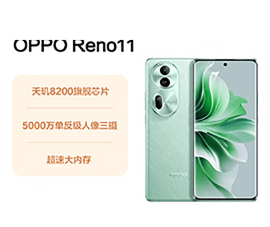
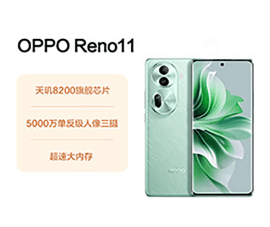
银券合约期图片，reno字缺失修改

diff --git a/尊享多多终端直降活动页面（4.19）/js/index.js b/尊享多多终端直降活动页面（4.19）/js/index.js
@@ -128,7 +128,7 @@ const levelMaps = {
         oldrice: 9599,
       },
       {
-        descImg: './img/opporeno11.png',
+        descImg: './img/opporeno11pro.png',
         downPrice: 400,
         oldrice: 2899,
       },
@@ -211,12 +211,12 @@ function setCoupon({ couponList, min }) {
   if (min < 120) {
     $('.single-silver-coupon').removeClass('hide')
     $('.buy-phone-coupon-list').addClass('hide')
-    $('.tips').addClass('hide')
+    $('.buy-phone-coupon .tips').addClass('hide')
     $('.buy-phone-coupon-list').html(html)
   } else {
     $('.single-silver-coupon').addClass('hide')
     $('.buy-phone-coupon-list').removeClass('hide')
-    $('.tips').removeClass('hide')
+    $('.buy-phone-coupon .tips').removeClass('hide')
 
     couponList.forEach((item) => {
       html += setCouponsHtml(item)
